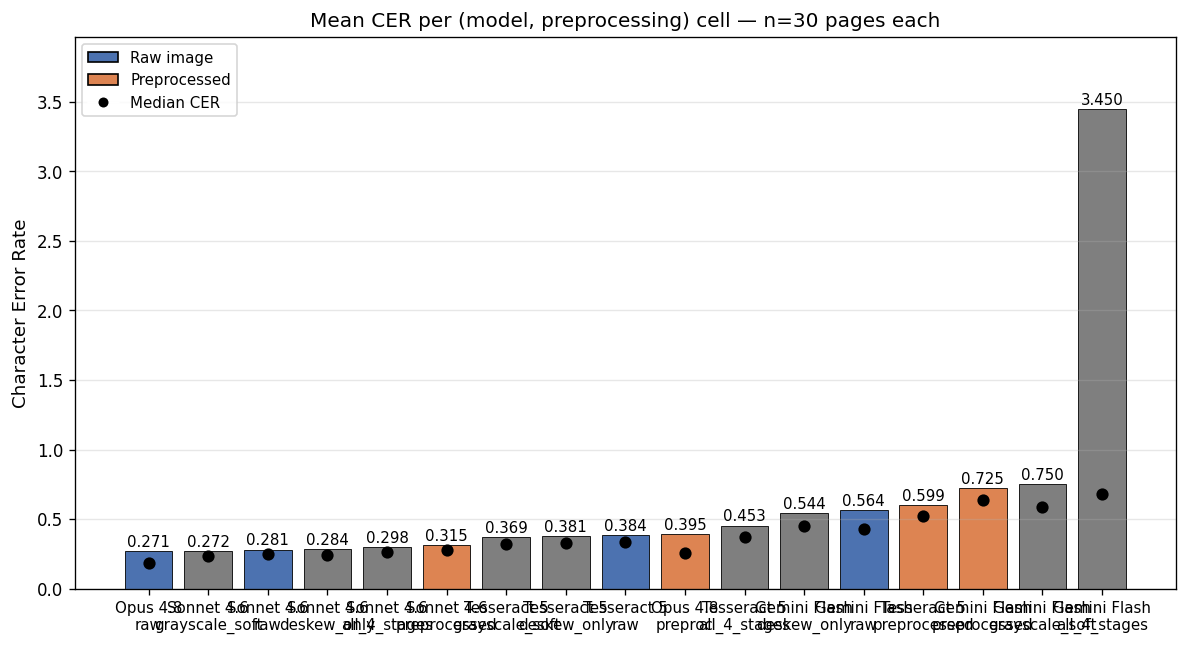
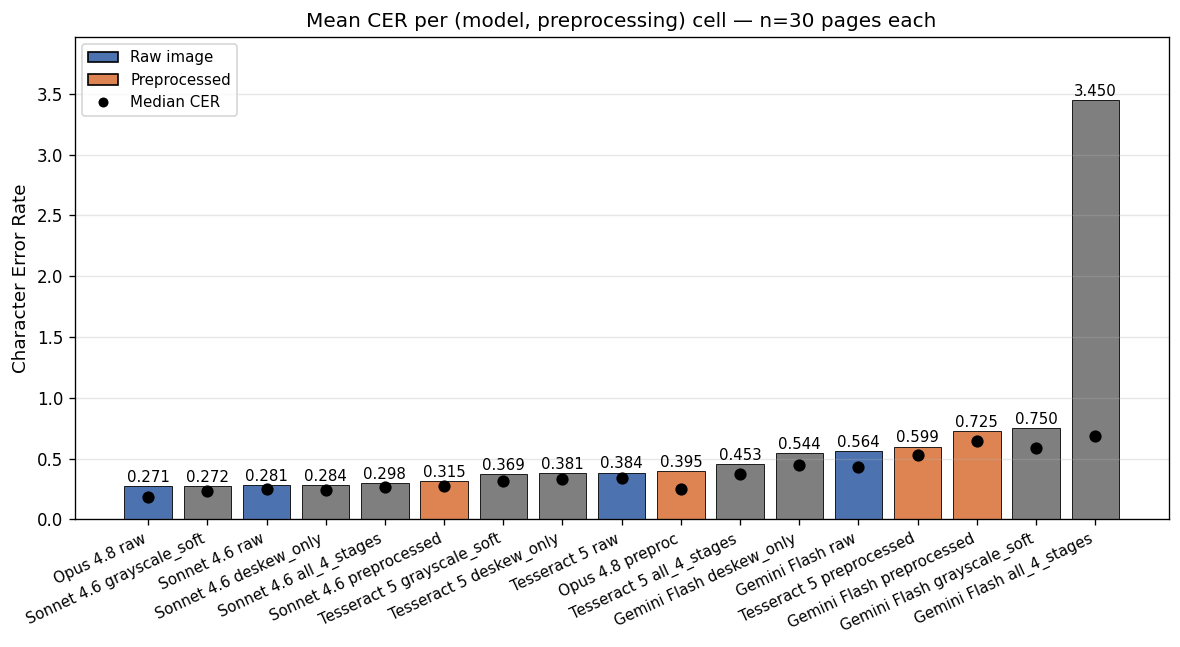
polish(slides): fix Slide 4 image stacking + Slide 5 & 7 column collapse + Slide 7 x-axis labels
Four specific layout issues Eric called out in Rauf's browser view:

1. Slide 4 (Corpus and quality taxonomy) — the 2 example images
   were stacking vertically inside the right column (each on its own
   markdown paragraph block). Changed to inline syntax — both images
   on a single source line with width='48%' each — so they render
   side-by-side within the column instead of stacked.

2. Slide 5 (Finding 1) — :::columns block was creating an overly
   tall slide that Reveal.js was scaling down or collapsing on some
   browsers. Restructured to image-on-top (centered, 80% width)
   with two short side-by-side text columns underneath summarizing
   the two patterns. Total content fits comfortably in one slide
   viewport.

3. Slide 7 (Finding 3) — same column-collapse issue. Restructured
   the same way: per_cell_mean_cer.png centered at 80% width, with
   a single-line CER ranking + two-sentence summary below.

4. per_cell_mean_cer.png x-axis labels — were horizontal and
   overlapped because the 8 cell labels are close together.
   Rotated 25 degrees with ha='right' to match the style already
   in use on error_categories_by_model.png (Slide 8). Eric noted
   the rotated style on Slide 8 'is acceptable' and asked the
   other charts match.

cost_vs_quality.png and per_bucket_cer_box.png are also regenerated
in the same script run; no intended visual change to those.

diff --git a/reports/presentation.html b/reports/presentation.html
@@ -214,61 +214,19 @@ Eric Rue &amp; Rauf Agyemang
 <li><strong>Damaged</strong> — physical damage, content loss</li>
 </ul>
 <p>Taxonomy emerged from browsing 97 pages, not from an a-priori spec.</p>
-<p>Examples at right: Clean (best case) and Damaged (worst case) for contrast.</p>
+<p>Examples at right: Clean (best case) vs Damaged (worst case).</p>
 </div><div class="column" style="width:40%;">
-<div class="quarto-figure quarto-figure-center">
-<figure>
-<p><img data-src="figures/corpus/quality_examples/clean.jpg" style="width:95.0%"></p>
-<figcaption>Clean</figcaption>
-</figure>
-</div>
-<div class="quarto-figure quarto-figure-center">
-<figure>
-<p><img data-src="figures/corpus/quality_examples/damaged.jpg" style="width:95.0%"></p>
-<figcaption>Damaged</figcaption>
-</figure>
-</div>
+<p><img data-src="figures/corpus/quality_examples/clean.jpg" style="width:48.0%" alt="Clean"> <img data-src="figures/corpus/quality_examples/damaged.jpg" style="width:48.0%" alt="Damaged"></p>
 </div></div>
 </section>
 <section id="finding-1-binarize-universally-hurts-other-stages-are-per-model" class="slide level2">
 <h2>Finding 1: Binarize universally hurts; other stages are per-model</h2>
-<div class="columns">
-<div class="column" style="width:42%;">
-<p><strong>Best variant per model:</strong></p>
-<table class="caption-top">
-<thead>
-<tr class="header">
-<th>Model</th>
-<th>Best</th>
-<th style="text-align: right;">Mean CER</th>
-</tr>
-</thead>
-<tbody>
-<tr class="odd">
-<td>Sonnet</td>
-<td>grayscale-soft¹</td>
-<td style="text-align: right;">0.272</td>
-</tr>
-<tr class="even">
-<td>Tesseract</td>
-<td>grayscale-soft¹</td>
-<td style="text-align: right;">0.369</td>
-</tr>
-<tr class="odd">
-<td>Gemini Flash</td>
-<td>raw / deskew</td>
-<td style="text-align: right;">0.56</td>
-</tr>
-</tbody>
-</table>
-<p>¹ deskew + denoise + CLAHE contrast, no binarize.</p>
-<p><strong>Two patterns:</strong></p>
-<ul>
-<li><strong>Binarize universally destroys</strong> — every binarize cell loses. Tesseract -21pp worst.</li>
-<li><strong>Other stages are model-dependent</strong> — helps Sonnet &amp; Tesseract, hurts Gemini Flash.</li>
-</ul>
-</div><div class="column" style="width:58%;">
-<p><img data-src="figures/results/preprocessing_ablation.png" style="width:100.0%"></p>
+
+<img data-src="figures/results/preprocessing_ablation.png" class="quarto-figure quarto-figure-center r-stretch" style="width:80.0%"><div class="columns">
+<div class="column" style="width:50%;">
+<p><strong>Binarize is universally destructive</strong> — every binarize cell loses to raw. Tesseract hurt worst (+21pp).</p>
+</div><div class="column" style="width:50%;">
+<p><strong>Other stages are model-dependent</strong> — grayscale-soft (deskew+denoise+CLAHE) helps Sonnet &amp; Tesseract; Gemini Flash is best raw.</p>
 </div></div>
 </section>
 <section id="finding-2-claude-sonnet-is-the-cost-quality-sweet-spot" class="slide level2">
@@ -288,45 +246,9 @@ Eric Rue &amp; Rauf Agyemang
 </section>
 <section id="finding-3-tesseract-beats-gemini-flash-on-telugu" class="slide level2">
 <h2>Finding 3: Tesseract BEATS Gemini Flash on Telugu</h2>
-<div class="columns">
-<div class="column" style="width:48%;">
-<p><strong>Mean CER (raw images):</strong></p>
-<table class="caption-top">
-<thead>
-<tr class="header">
-<th>Rank</th>
-<th>Model</th>
-<th>CER</th>
-</tr>
-</thead>
-<tbody>
-<tr class="odd">
-<td>1</td>
-<td>Claude Opus</td>
-<td><strong>0.271</strong></td>
-</tr>
-<tr class="even">
-<td>2</td>
-<td>Claude Sonnet</td>
-<td>0.281</td>
-</tr>
-<tr class="odd">
-<td>3</td>
-<td><strong>Tesseract 5</strong></td>
-<td><strong>0.385</strong> ←</td>
-</tr>
-<tr class="even">
-<td>4</td>
-<td>Gemini Flash</td>
-<td>0.564</td>
-</tr>
-</tbody>
-</table>
-<p><strong>A 30-year-old classical OCR beats Google’s flagship vision LLM by 18 pp on Telugu.</strong></p>
-<p>Vision LLMs are NOT automatically superior for low-resource scripts.</p>
-</div><div class="column" style="width:52%;">
-<p><img data-src="figures/results/per_cell_mean_cer.png" style="width:100.0%"></p>
-</div></div>
+
+<img data-src="figures/results/per_cell_mean_cer.png" class="quarto-figure quarto-figure-center r-stretch" style="width:80.0%"><p><strong>Mean CER (raw): Opus 0.271 → Sonnet 0.281 → Tesseract 0.385 → Gemini Flash 0.564</strong></p>
+<p><strong>A 30-year-old classical OCR beats Google’s flagship vision LLM by 18 pp on Telugu.</strong> Vision LLMs are NOT automatically superior for low-resource scripts.</p>
 </section>
 <section id="per-model-failure-mode-signature" class="slide level2">
 <h2>Per-model failure-mode signature</h2>

diff --git a/scripts/build_report_figures.py b/scripts/build_report_figures.py
@@ -114,8 +114,12 @@ def plot_per_cell_mean_cer(cer: pd.DataFrame, out_path: Path) -> None:
 
     ax.set_xticks(list(x_positions))
     ax.set_xticklabels(
-        [cell_label(row.model, row.preprocessing) for row in grouped.itertuples()],
-        rotation=0,
+        [
+            cell_label(row.model, row.preprocessing).replace("\n", " ")
+            for row in grouped.itertuples()
+        ],
+        rotation=25,
+        ha="right",
         fontsize=9,
     )
     ax.set_ylabel("Character Error Rate", fontsize=11)